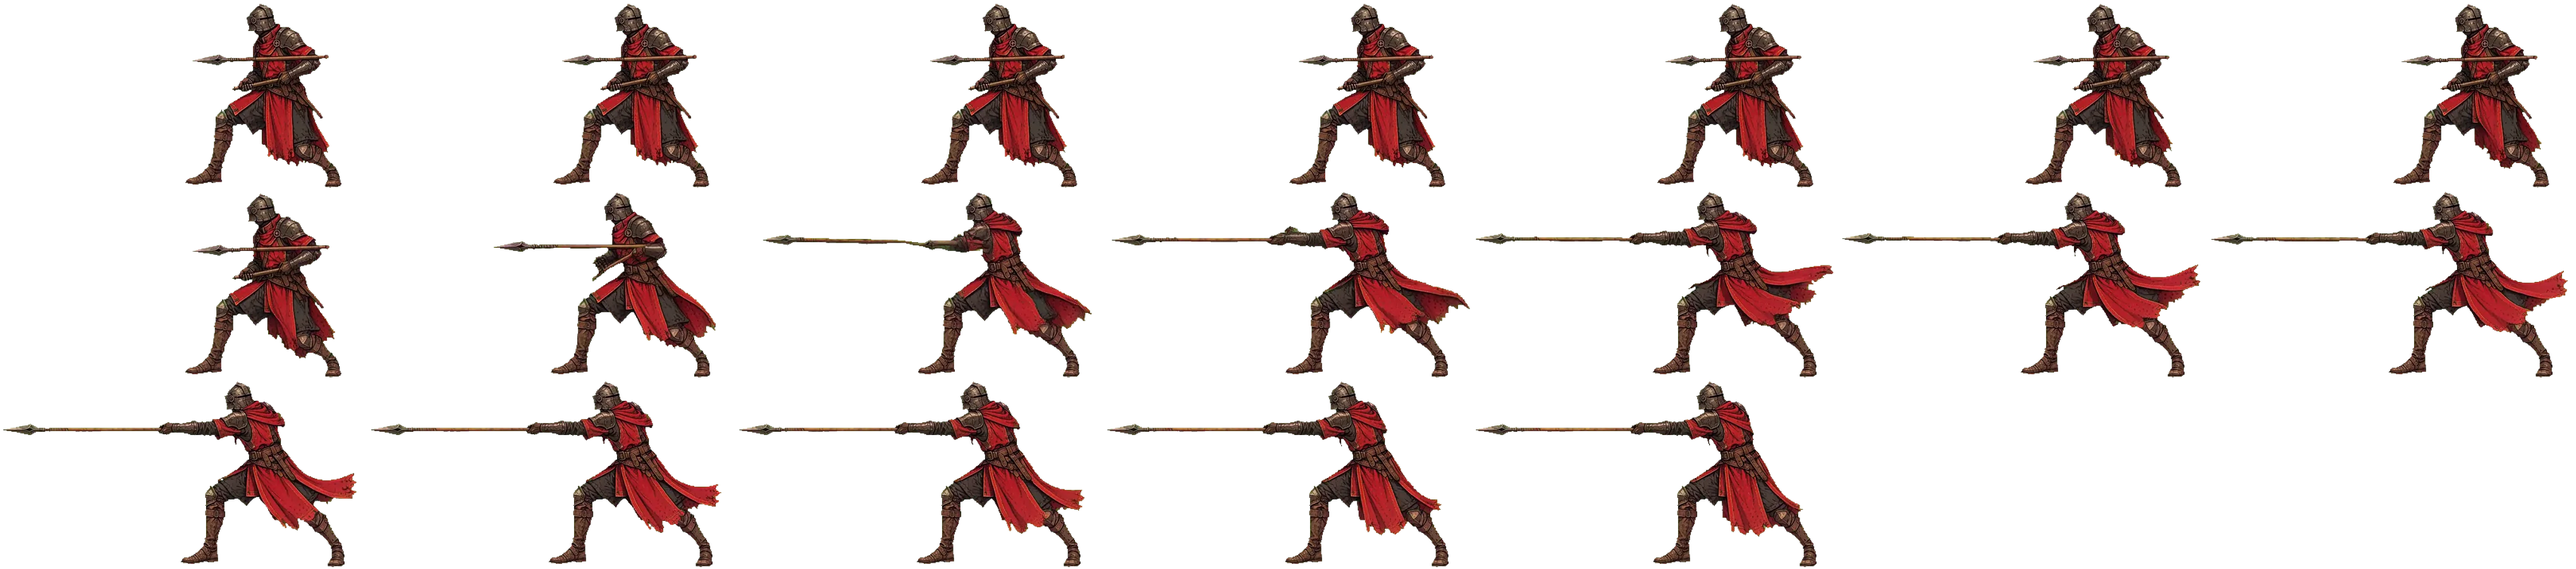
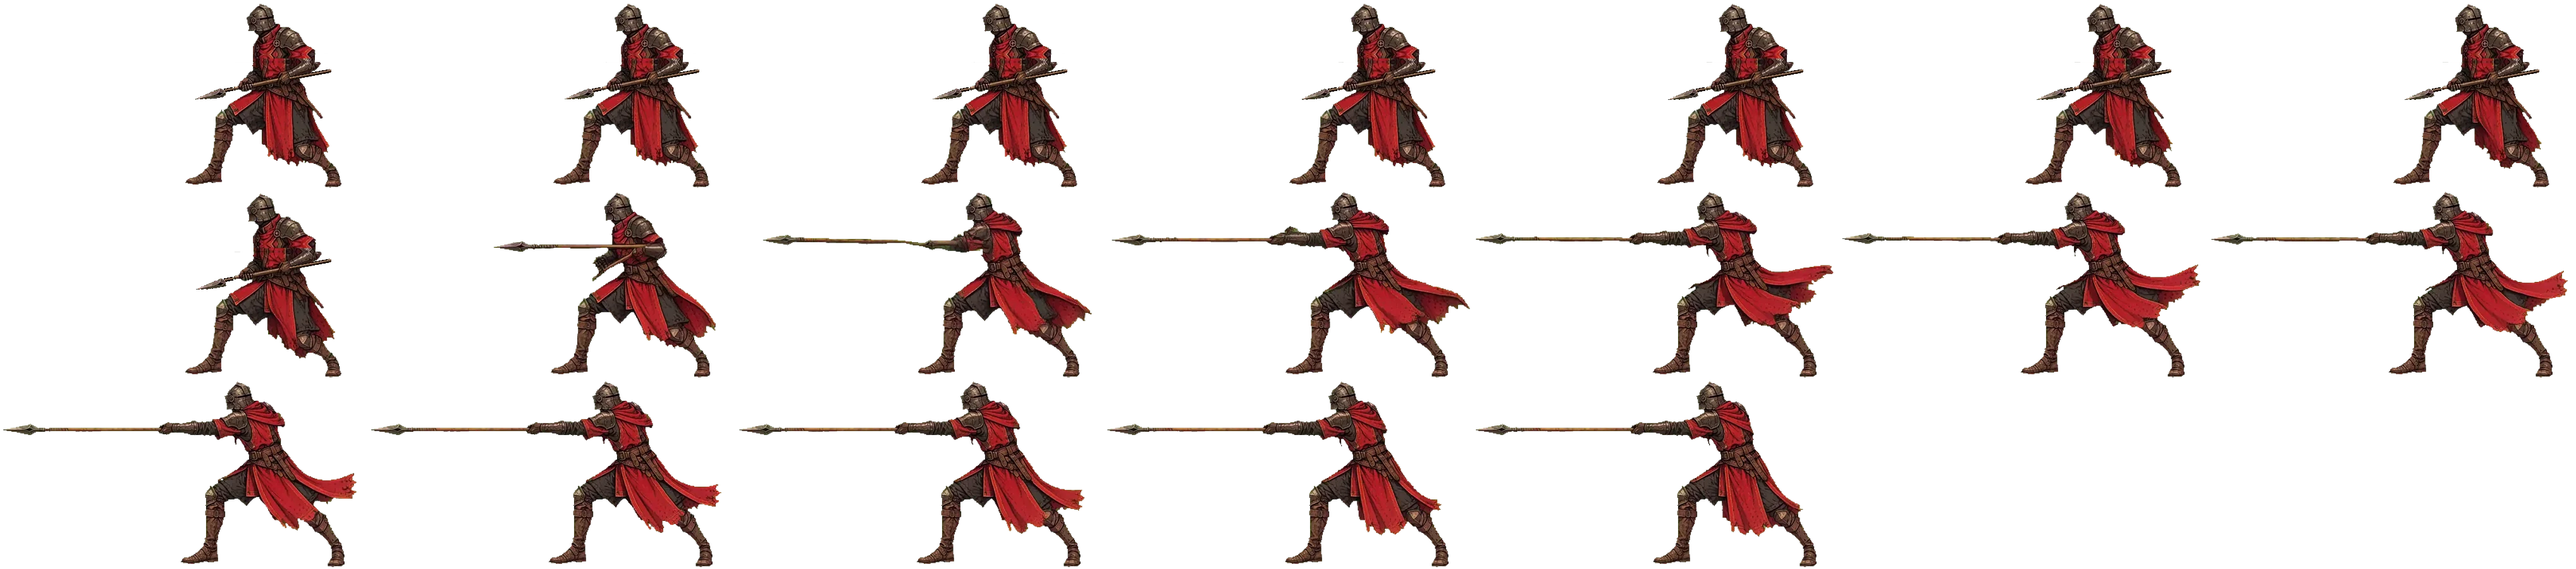
Warden guard: one spear, held (hand fix of warden_thrust 0-7)
MiniMax kept both spears of the pasted-up guard it was given: a level
spear floating above his hands and the stub he grips. fix_warden_guard.py
removes the floating one (open air cleared, the chest refilled by
mirroring the cloth above and below) and extends the gripped stub along
its own line into the whole spear, with the clip's painted head rotated
onto it. cutouts/f_warden_guard_held.webp is that guard, for new
first/last-frame clips.

Claude-Session: https://claude.ai/code/session_0197BzVXrvNsJbUyZaXgeN4P

diff --git a/tools/cutscene/unwritten/motion/fix_warden_guard.py b/tools/cutscene/unwritten/motion/fix_warden_guard.py
@@ -1,0 +1,164 @@
+#!/usr/bin/env python3
+"""Hand-fix the Warden's guard in the warden_thrust clip (drawings 0-7).
+
+MiniMax was given a guard pose whose painted spear had been pasted across the figure
+(the original guard held only a short stub). The model kept both: a level spear floating
+above his hands and the stub he grips. This rebuilds the guard with one spear:
+
+  1. the floating spear is removed: where it crossed open air the pixels go transparent,
+     where it crossed his body the body is inpainted from above and below;
+  2. the stub he grips becomes the whole spear: the shaft is extended along the stub's
+     own line through both gauntlets, back past his hip to the butt, forward to a point,
+     and the clip's own painted spearhead is rotated onto it.
+
+Run once; it rewrites docs/art-direction/anime-op/motion/warden_thrust.webp in place
+(git holds the original). Cell coordinates are the atlas's (300 px tall cells).
+"""
+
+import json
+import math
+from pathlib import Path
+
+import cv2
+import numpy as np
+from PIL import Image
+
+ROOT = Path(__file__).resolve().parents[4]
+ATLAS = ROOT / "docs/art-direction/anime-op/motion/warden_thrust.webp"
+META = json.loads((ATLAS.with_suffix(".json")).read_text())
+CW, CH = META["cell"]
+COLS = META["cols"]
+
+# the floating spear: a band along y = 91 from its point to its butt (cell px)
+LVL_Y, LVL_HALF, LVL_X0, LVL_X1 = 91.5, 4.6, 294, 526
+# the stub he grips runs through these two points; the rebuilt spear follows its line
+STUB_A = (369.0, 140.0)  # its forward (left) end, just ahead of the lead gauntlet
+STUB_B = (455.0, 124.0)  # just behind the rear gauntlet
+TIP_X, BUTT_X = 302.0, 521.0
+# the painted head of the floating spear (point at the left, socket at the right)
+HEAD_BOX = (297, 82, 354, 101)  # x0, y0, x1, y1
+HEAD_SOCKET = (353.0, 91.0)
+HEAD_POINT = (299.0, 91.5)
+
+
+def cell(atlas, i):
+    x0 = (i % COLS) * CW
+    y0 = (i // COLS) * CH
+    return x0, y0
+
+
+def line_y(x):
+    (ax, ay), (bx, by) = STUB_A, STUB_B
+    return ay + (by - ay) * (x - ax) / (bx - ax)
+
+
+def fix(c):
+    """c: HxWx4 uint8 RGBA of one cell. Returns the fixed cell."""
+    h, w = c.shape[:2]
+    out = c.copy()
+    head = c[HEAD_BOX[1] : HEAD_BOX[3], HEAD_BOX[0] : HEAD_BOX[2]].copy()
+
+    # 1. remove the floating spear
+    band = np.zeros((h, w), np.uint8)
+    for x in range(LVL_X0, LVL_X1 + 1):
+        half = LVL_HALF + (5 if x < 358 else 0)  # the head is wider than the shaft
+        band[int(LVL_Y - half) : int(math.ceil(LVL_Y + half)) + 1, x] = 1
+    alpha = c[:, :, 3]
+    above = alpha[int(LVL_Y - LVL_HALF - 3)]
+    below = alpha[int(LVL_Y + LVL_HALF + 3)]
+    body = np.zeros_like(band)
+    for x in range(w):
+        if above[x] > 128 and below[x] > 128:
+            body[:, x] = 1
+    inpaint = (band & body).astype(np.uint8)
+    clear = (band & (1 - body)).astype(bool)
+    # over the body: each column is filled by mirroring the cloth just above the band
+    # into its top half and the cloth just below into its bottom half (keeps the paint's
+    # grain, where an inpaint blurs), then the seam is softened by one pixel
+    for x in range(w):
+        ys = np.nonzero(inpaint[:, x])[0]
+        if len(ys) == 0:
+            continue
+        top, bot = ys[0], ys[-1]
+        mid = (top + bot) / 2
+        for y in range(top, bot + 1):
+            src = top - 1 - (y - top) if y <= mid else bot + 1 + (bot - y)
+            src = min(h - 1, max(0, src))
+            out[y, x, :3] = c[src, x, :3]
+            out[y, x, 3] = 255
+        m = int(round(mid))
+        if 0 < m < h - 1:
+            out[m, x, :3] = (out[m - 1, x, :3].astype(int) + out[m + 1, x, :3].astype(int)) // 2
+    out[clear] = 0
+    # the old head's fringe (soft edge pixels outside the band), in open air ahead of him
+    out[78:107, 294:371] = 0
+
+    # 2. the shaft along the stub's line, outside the stretch the gauntlets already hold
+    dx = BUTT_X - TIP_X
+    dy = line_y(BUTT_X) - line_y(TIP_X)
+    L = math.hypot(dx, dy)
+    ux, uy = dx / L, dy / L
+    nx, ny = -uy, ux  # the normal (pointing down-right of the shaft: its shadow side)
+    WOOD = np.array([118, 80, 54])
+    WOOD_HI = np.array([170, 128, 98])
+    WOOD_LO = np.array([62, 40, 26])
+    INK = np.array([26, 17, 10])
+    head_len = HEAD_SOCKET[0] - HEAD_POINT[0]
+    socket_x = TIP_X + head_len * ux
+    for x0 in np.arange(socket_x - 1, BUTT_X, 0.25):
+        if STUB_A[0] - 1 < x0 < STUB_B[0] + 3:
+            continue  # the painted stub and the gauntlets over it stay as painted
+        y0 = line_y(x0)
+        for d in np.arange(-2.4, 2.41, 0.25):
+            px = int(round(x0 + nx * d))
+            py = int(round(y0 + ny * d))
+            if not (0 <= px < w and 0 <= py < h):
+                continue
+            a = abs(d)
+            col = INK if a > 1.7 else (WOOD_HI if d < -0.6 else WOOD_LO if d > 0.8 else WOOD)
+            out[py, px, :3] = col
+            out[py, px, 3] = 255
+    # the butt cap
+    bx, by = BUTT_X, line_y(BUTT_X)
+    for yy in range(int(by) - 3, int(by) + 4):
+        for xx in range(int(bx) - 3, int(bx) + 4):
+            if (xx - bx) ** 2 + (yy - by) ** 2 <= 7 and 0 <= xx < w and 0 <= yy < h:
+                out[yy, xx, :3] = WOOD_HI if yy < by else WOOD_LO
+                out[yy, xx, 3] = 255
+
+    # 3. the painted head, rotated onto the new line, its socket at the shaft's end
+    ang = math.degrees(math.atan2(uy, ux))  # the shaft's angle (butt direction)
+    himg = Image.fromarray(head, "RGBA")
+    # pad so the rotation keeps the socket at a known place (the pad's centre)
+    sx = HEAD_SOCKET[0] - HEAD_BOX[0]
+    sy = HEAD_SOCKET[1] - HEAD_BOX[1]
+    pad = 70
+    canvas = Image.new("RGBA", (2 * pad, 2 * pad), (0, 0, 0, 0))
+    canvas.paste(himg, (int(pad - sx), int(pad - sy)), himg)
+    rot = canvas.rotate(-ang, resample=Image.BICUBIC, center=(pad, pad))
+    ra = np.array(rot)
+    sock = (socket_x, line_y(socket_x))
+    ox = int(round(sock[0] - pad))
+    oy = int(round(sock[1] - pad))
+    for yy in range(ra.shape[0]):
+        for xx in range(ra.shape[1]):
+            if ra[yy, xx, 3] < 110:
+                continue
+            X, Y = ox + xx, oy + yy
+            if 0 <= X < w and 0 <= Y < h:
+                out[Y, X, :3] = ra[yy, xx, :3]
+                out[Y, X, 3] = 255
+    return out
+
+
+def main():
+    im = np.array(Image.open(ATLAS).convert("RGBA"))
+    for i in range(0, 8):
+        x0, y0 = cell(im, i)
+        im[y0 : y0 + CH, x0 : x0 + CW] = fix(im[y0 : y0 + CH, x0 : x0 + CW])
+    Image.fromarray(im, "RGBA").save(ATLAS, "WEBP", quality=88, alpha_quality=100, method=6)
+    print(f"fixed drawings 0-7 of {ATLAS.relative_to(ROOT)}")
+
+
+if __name__ == "__main__":
+    main()
